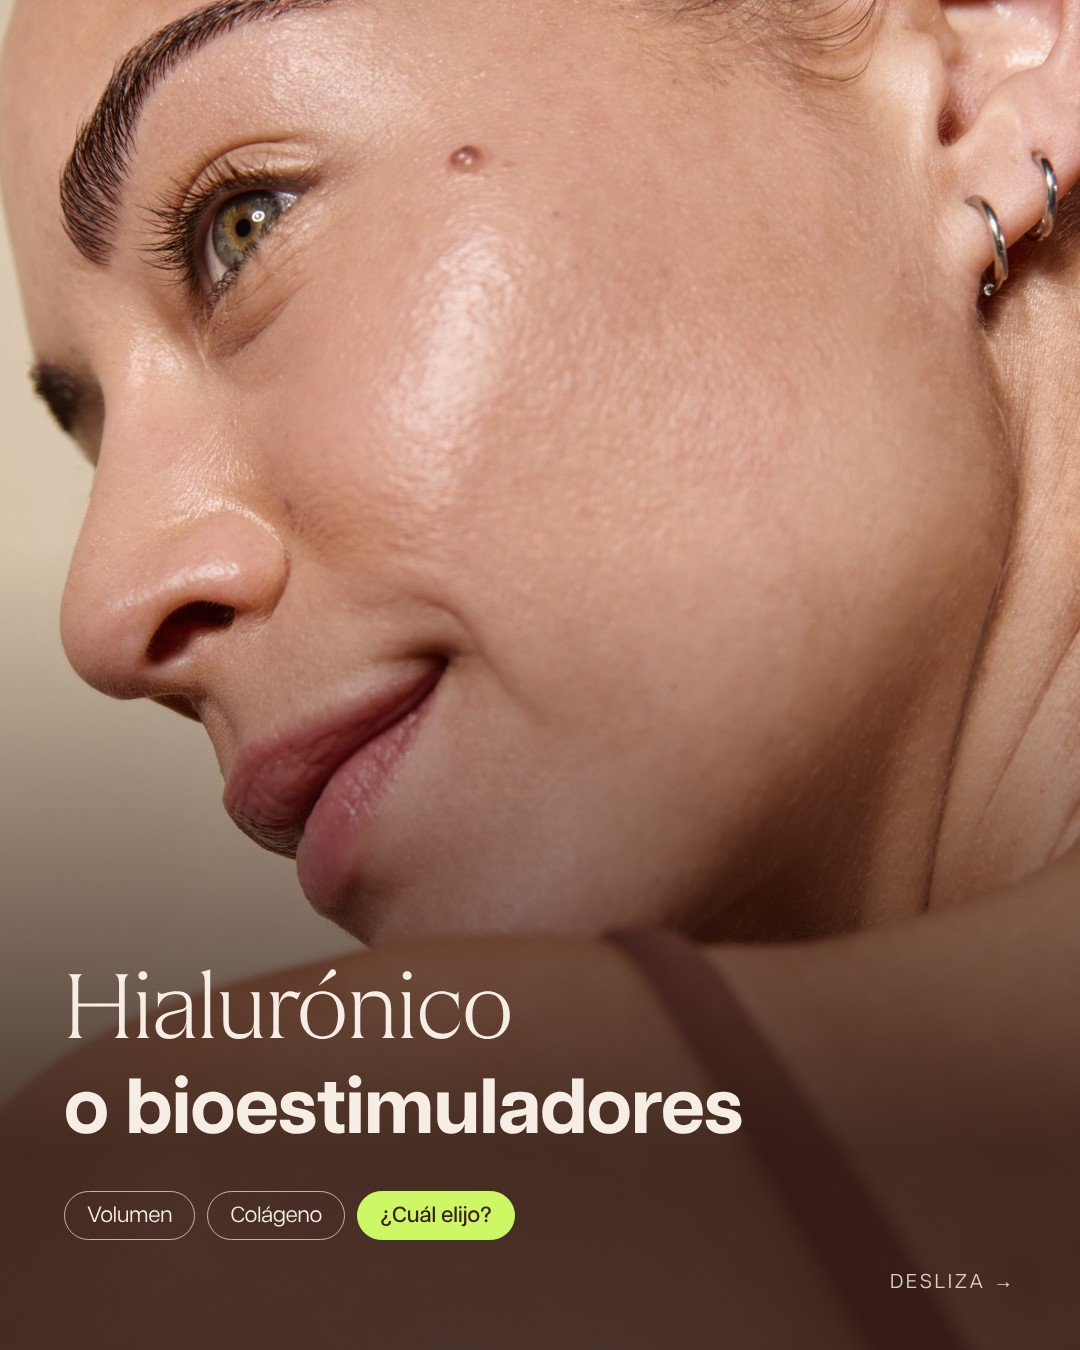
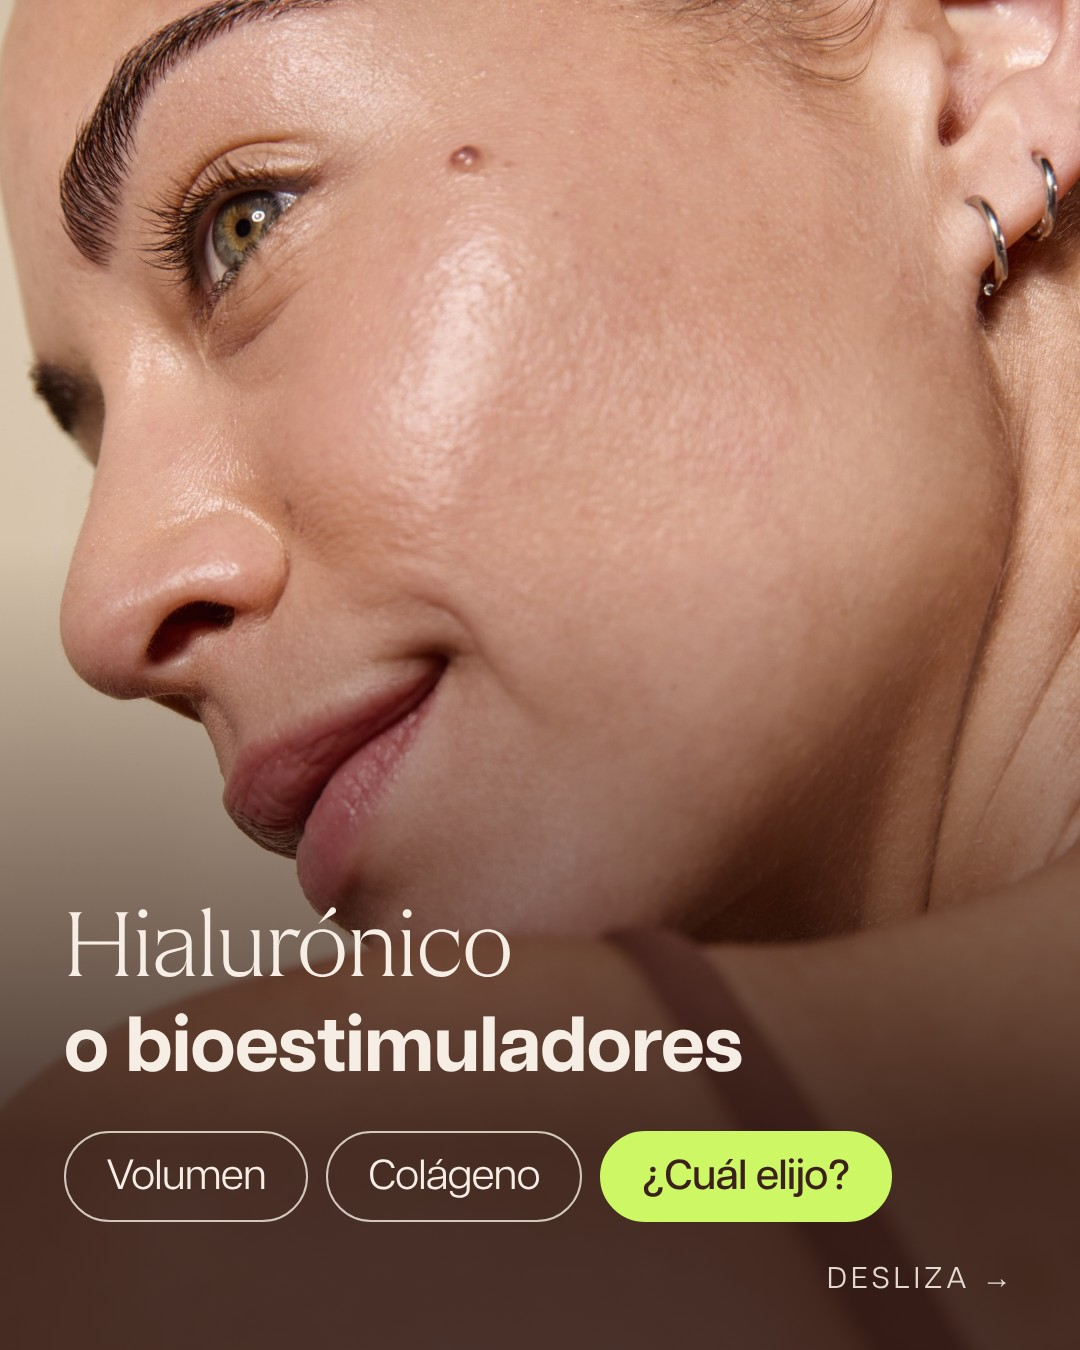
Calendario noviembre: portada del carrusel del 14 con botones y Desliza más grandes
Claude-Session: https://claude.ai/code/session_01JZ4qrB4vBJCM1LriYw1bZU

Changed region(s): [[0.0611, 0.6844, 0.825, 0.9333], [0.7639, 0.9333, 0.9167, 0.9644]]

diff --git a/public/pitch/skin-laundry-calendario/noviembre/index.html b/public/pitch/skin-laundry-calendario/noviembre/index.html
@@ -686,7 +686,7 @@ Reserva tu cita desde el enlace de la bio.
 📍 Av. Diagonal 610, Barcelona
 #Neuromoduladores #MitosYVerdades #MedicinaEsteticaBarcelona #SkinLaundryBarcelona` },
 
-{ d:14, formato:"Carrusel", estado:"listo", storyImg:"/pitch/skin-laundry-calendario/noviembre/img/st_14.jpg?v=11120146", cubo:"Med. estética", tema:"Hialurónico", hora:"11:00h", media:"/pitch/skin-laundry-calendario/noviembre/img/d14_hy_1.jpg?v=11120215", slides:["/pitch/skin-laundry-calendario/noviembre/img/d14_hy_1.jpg?v=11120215","/pitch/skin-laundry-calendario/noviembre/img/d14_hy_2.jpg?v=11120215","/pitch/skin-laundry-calendario/noviembre/img/d14_hy_3.jpg?v=11120355","/pitch/skin-laundry-calendario/noviembre/img/d14_hy_4.jpg?v=11120957","/pitch/skin-laundry-calendario/noviembre/img/d14_hy_5.jpg?v=11120215"],
+{ d:14, formato:"Carrusel", estado:"listo", storyImg:"/pitch/skin-laundry-calendario/noviembre/img/st_14.jpg?v=11120146", cubo:"Med. estética", tema:"Hialurónico", hora:"11:00h", media:"/pitch/skin-laundry-calendario/noviembre/img/d14_hy_1.jpg?v=11121317", slides:["/pitch/skin-laundry-calendario/noviembre/img/d14_hy_1.jpg?v=11121317","/pitch/skin-laundry-calendario/noviembre/img/d14_hy_2.jpg?v=11120215","/pitch/skin-laundry-calendario/noviembre/img/d14_hy_3.jpg?v=11120355","/pitch/skin-laundry-calendario/noviembre/img/d14_hy_4.jpg?v=11120957","/pitch/skin-laundry-calendario/noviembre/img/d14_hy_5.jpg?v=11120215"],
   pieza:"Hialurónico vs. bioestimuladores",
   base:"Carta: volumen y calidad de piel", cta:"Consulta previa con nuestros médicos",
   nota:"Fotos de modelo: confirmar que son de Canto o de un shooting con derechos · contenido médico pendiente de revisión por la doctora",
